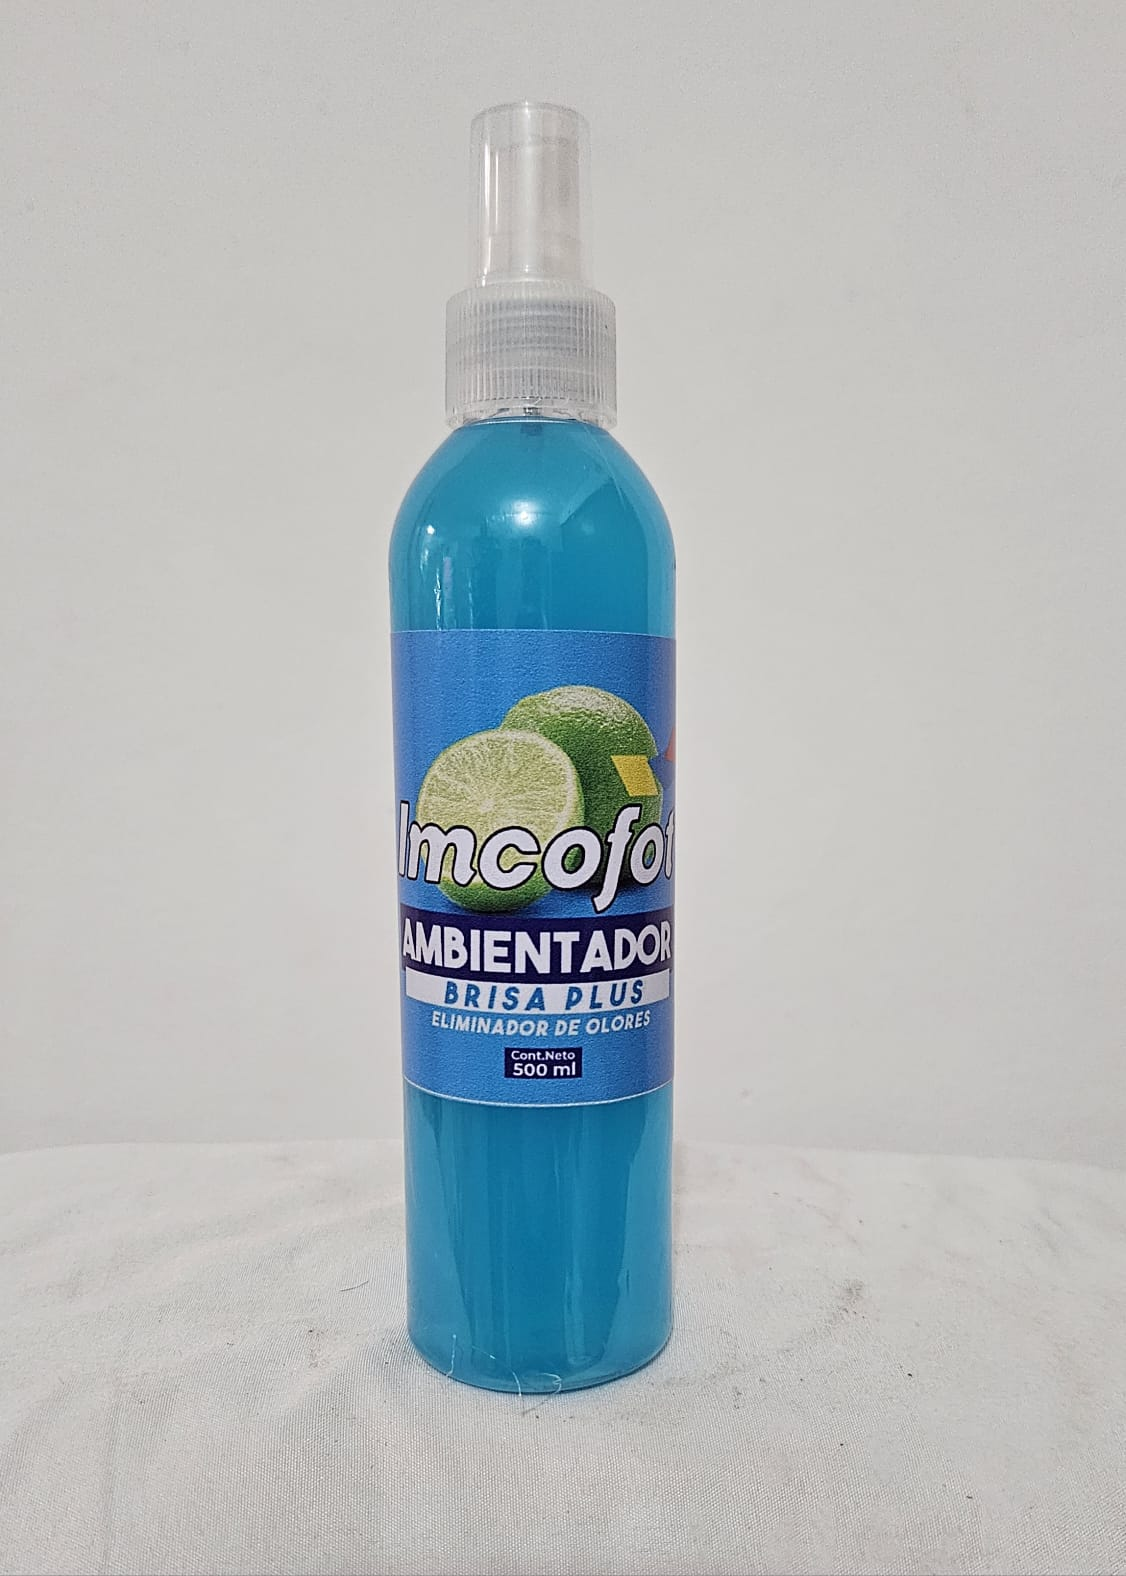
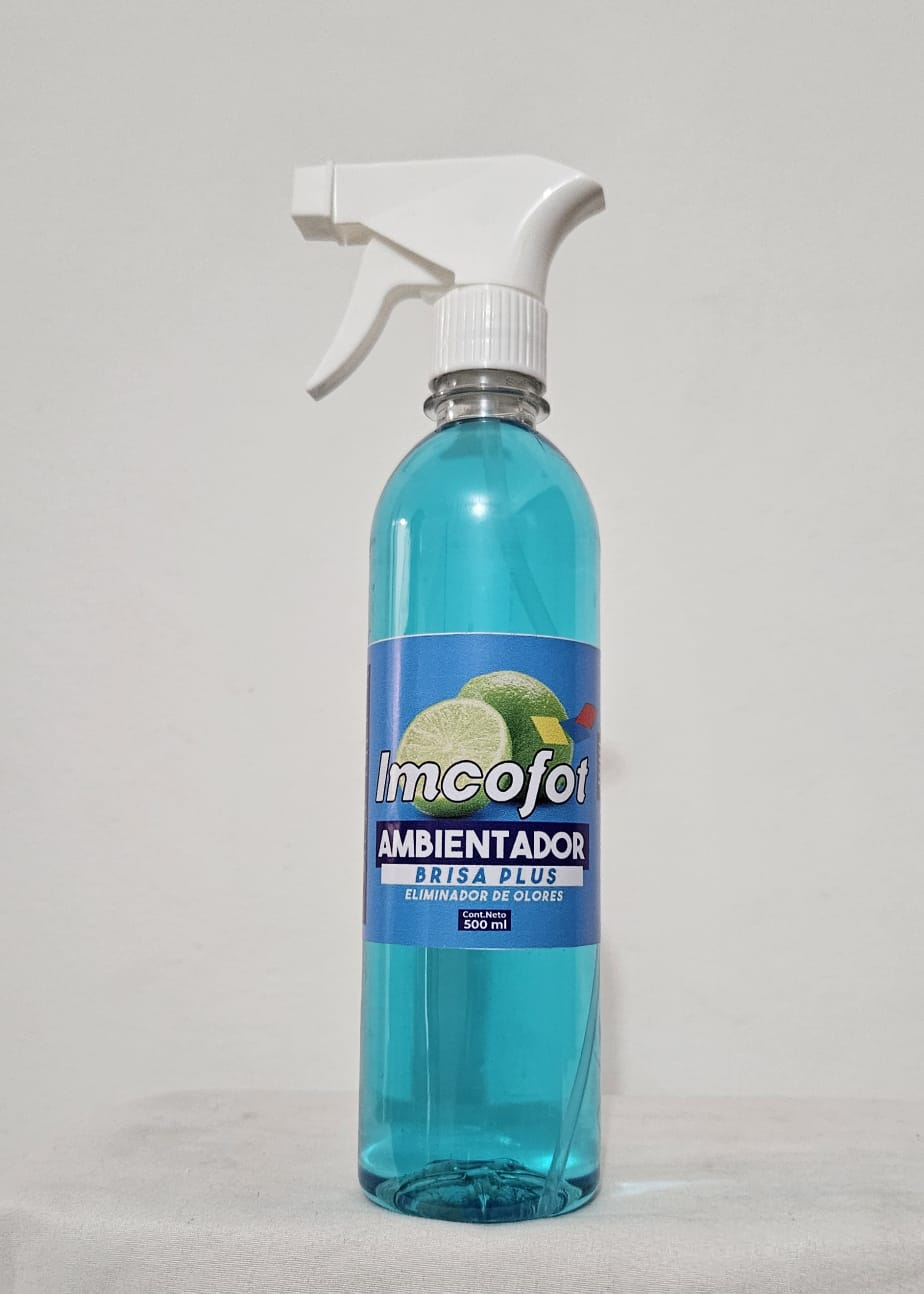
jqk

Changed region(s): [[0.2121, 0.0618, 0.7273, 1.0], [0.7273, 0.8037, 0.7576, 0.8346], [0.697, 0.9892, 0.7273, 1.0]]

diff --git a/aseo.html b/aseo.html
@@ -297,7 +297,7 @@
                             <div class="card-body">
                                 <h3 class="h3 text-decoration-none">DESENGRASANTE
                                     INDUSTRIAL 1.000ml</h3>
-                                <p class="codeproduct"> <b class="colorblue">Precio: </b>$11.500  </p>
+                                <p class="codeproduct"> <b class="colorblue">Precio: </b>$12.000  </p>
                                 <p class="unitpresentation"><b class="colorblue"></b>Limpiador fuertemente alcalino, ideal
                                     para removersuciedad difícil,
                                     especialmente para sedimento
@@ -319,7 +319,7 @@
                             <div class="card-body">
                                 <h3 class="h3 text-decoration-none">DESENGRASANTE
                                     INDUSTRIAL 500ml</h3>
-                                <p class="codeproduct"> <b class="colorblue">Precio: </b>$6.200  </p>
+                                <p class="codeproduct"> <b class="colorblue">Precio: </b>$6.600  </p>
                                 <p class="unitpresentation"><b class="colorblue"></b>Limpiador fuertemente alcalino, ideal
                                     para removersuciedad difícil,
                                     especialmente para sedimento
@@ -420,18 +420,18 @@
                         </div>
                     </div>
 
-                    <!-- <div class="col-md-4">
+                    <div class="col-md-4">
                         <div class="card mb-4 product-wap rounded-0">
                             <div class="card rounded-0">
-                                <img class="card-img rounded-0 img-fluid" src="assets/img/Aseo/A006.jfif">
+                                <img class="card-img rounded-0 img-fluid" src="assets/img/Aseo/A012.jpeg">
                                 <div class="card-img-overlay rounded-0 product-overlay d-flex align-items-center justify-content-center">
                                     
                                 </div>
                             </div>
                             <div class="card-body">
-                                <h3 class="h3 text-decoration-none">GEL ANTIBACTERIAL
+                                <h3 class="h3 text-decoration-none">GEL ANTIBACTERIAL 500ml
                                 </h3>
-                                <p class="codeproduct"> <b class="colorblue">Codigo: </b>A006  </p>
+                                <p class="codeproduct"> <b class="colorblue">precio: </b>$6.900</p>
                                 <p class="unitpresentation"><b class="colorblue"></b>Se emplea en la limpieza y
                                     desinfección de manos, contiene
                                     microesferas de vitamina que
@@ -442,7 +442,7 @@
                                     </p>
                             </div>
                         </div>
-                    </div> -->
+                    </div>
 
                     <div class="col-md-4">
                         <div class="card mb-4 product-wap rounded-0">
@@ -454,8 +454,8 @@
                             </div>
                             <div class="card-body">
                                 <h3 class="h3 text-decoration-none">ELIMINADOR DE OLORES
-                                    AROMA BRISA PLUS 250ml</h3>
-                                <p class="codeproduct"> <b class="colorblue">Precio: </b>$3.200  </p>
+                                    AROMA BRISA PLUS 500ml</h3>
+                                <p class="codeproduct"> <b class="colorblue">Precio: </b>$6.000</p>
                                 <p class="unitpresentation"><b class="colorblue"></b>Único con desinfectante de 5
                                     generación con un doble efecto,
                                     desodoriza y deja un agradable
@@ -469,7 +469,51 @@
                     <div class="col-md-4">
                         <div class="card mb-4 product-wap rounded-0">
                             <div class="card rounded-0">
-                                <img class="card-img rounded-0 img-fluid" src="assets/img/Aseo/A014.jpg">
+                                <img class="card-img rounded-0 img-fluid" src="assets/img/Aseo/A013.1.jpeg">
+                                <div class="card-img-overlay rounded-0 product-overlay d-flex align-items-center justify-content-center">
+                                    
+                                </div>
+                            </div>
+                            <div class="card-body">
+                                <h3 class="h3 text-decoration-none">ELIMINADOR DE OLORES
+                                    AROMA BRISA PLUS 250ml</h3>
+                                <p class="codeproduct"> <b class="colorblue">Precio: </b>$3.500  </p>
+                                <p class="unitpresentation"><b class="colorblue"></b>Único con desinfectante de 5
+                                    generación con un doble efecto,
+                                    desodoriza y deja un agradable
+                                    aroma a fragancia natural,
+                                    producto biodegradable.
+                                    </p>
+                            </div>
+                        </div>
+                    </div>
+
+                    <div class="col-md-4">
+                        <div class="card mb-4 product-wap rounded-0">
+                            <div class="card rounded-0">
+                                <img class="card-img rounded-0 img-fluid" src="assets/img/Aseo/A014.jpeg">
+                                <div class="card-img-overlay rounded-0 product-overlay d-flex align-items-center justify-content-center">
+                                    
+                                </div>
+                            </div>
+                            <div class="card-body">
+                                <h3 class="h3 text-decoration-none">ELIMINADOR DE OLORES
+                                    AROMA FRUTOS ROJOS 500ml</h3>
+                                <p class="codeproduct"> <b class="colorblue">Precio: </b>$6.000</p>
+                                <p class="unitpresentation"><b class="colorblue"></b>Único con desinfectante de 5
+                                    generación con un doble efecto,
+                                    desodoriza y deja un agradable
+                                    aroma a fragancia natural,
+                                    producto biodegradable.
+                                    </p>
+                            </div>
+                        </div>
+                    </div>
+
+                    <div class="col-md-4">
+                        <div class="card mb-4 product-wap rounded-0">
+                            <div class="card rounded-0">
+                                <img class="card-img rounded-0 img-fluid" src="assets/img/Aseo/A014.1.jpg">
                                 <div class="card-img-overlay rounded-0 product-overlay d-flex align-items-center justify-content-center">
                                     
                                 </div>
@@ -477,7 +521,7 @@
                             <div class="card-body">
                                 <h3 class="h3 text-decoration-none">ELIMINADOR DE OLORES
                                     AROMA FRUTOS ROJOS 250ml</h3>
-                                <p class="codeproduct"> <b class="colorblue">Precio: </b>$3.200  </p>
+                                <p class="codeproduct"> <b class="colorblue">Precio: </b>$3.500  </p>
                                 <p class="unitpresentation"><b class="colorblue"></b>Único con desinfectante de 5
                                     generación con un doble efecto,
                                     desodoriza y deja un agradable
@@ -594,6 +638,28 @@
                         </div>
                     </div>
 
+                    <div class="col-md-4">
+                        <div class="card mb-4 product-wap rounded-0">
+                            <div class="card rounded-0">
+                                <img class="card-img rounded-0 img-fluid" src="assets/img/Aseo/A019.1.jpeg">
+                                <div class="card-img-overlay rounded-0 product-overlay d-flex align-items-center justify-content-center">
+                                    
+                                </div>
+                            </div>
+                            <div class="card-body">
+                                <h3 class="h3 text-decoration-none">CREOLINA 250ml</h3>
+                                <p class="codeproduct"> <b class="colorblue">Precio: </b>$5.000</p>
+                                <p class="unitpresentation"><b class="colorblue"></b>Desinfectante natural para uso
+                                    principalmente en limpieza y
+                                    desinfección de pisos, galpones,
+                                    gallineros, criaderos y en general en
+                                    todos aquellos lugares propensos a la
+                                    proliferación de microorganismos,
+                                    olores desagradables.</p>
+                            </div>
+                        </div>
+                    </div>
+
                     <!-- <div class="col-md-4">
                         <div class="card mb-4 product-wap rounded-0">
                             <div class="card rounded-0">
@@ -636,10 +702,10 @@
                         </div>
                     </div>
 
-                    <!-- <div class="col-md-4">
+                    <div class="col-md-4">
                         <div class="card mb-4 product-wap rounded-0">
                             <div class="card rounded-0">
-                                <img class="card-img rounded-0 img-fluid" src="assets/img/Aseo/A022.jpg">
+                                <img class="card-img rounded-0 img-fluid" src="assets/img/Aseo/A022.jpeg">
                                 <div class="card-img-overlay rounded-0 product-overlay d-flex align-items-center justify-content-center">
                                     
                                 </div>
@@ -647,7 +713,7 @@
                             <div class="card-body">
                                 <h3 class="h3 text-decoration-none">LIMPIADOR
                                     DESINFECTANTE BICARBONATO 1.000ml</h3>
-                                <p class="codeproduct"> <b class="colorblue">Precio: </b>$5.800  </p>
+                                <p class="codeproduct"> <b class="colorblue">Precio: </b>$6.000</p>
                                 <p class="unitpresentation"><b class="colorblue"></b>Se emplea en la limpieza de pisos
                                     de cualquier calidad, baños, y
                                     otrassuperficie desinfectando y
@@ -656,7 +722,7 @@
                                     </p>
                             </div>
                         </div>
-                    </div> -->
+                    </div>
 
                     <div class="col-md-4">
                         <div class="card mb-4 product-wap rounded-0">
@@ -691,7 +757,7 @@
                             <div class="card-body">
                                 <h3 class="h3 text-decoration-none">LIMPIADOR
                                     DESINFECTANTE CANELA 3.800ml</h3>
-                                <p class="codeproduct"> <b class="colorblue">Precio: </b>$18.500  </p>
+                                <p class="codeproduct"> <b class="colorblue">Precio: </b>$19.500  </p>
                                 <p class="unitpresentation"><b class="colorblue"></b>Se emplea en la limpieza de pisos
                                     de cualquier calidad, baños, y
                                     otrassuperficie desinfectando y
@@ -757,7 +823,7 @@
                             <div class="card-body">
                                 <h3 class="h3 text-decoration-none">LIMPIADOR
                                     DESINFECTANTE FLORAL 3.800ml</h3>
-                                <p class="codeproduct"> <b class="colorblue">Precio: </b>$18.500  </p>
+                                <p class="codeproduct"> <b class="colorblue">Precio: </b>$19.500  </p>
                                 <p class="unitpresentation"><b class="colorblue"></b>Se emplea en la limpieza de pisos
                                     de cualquier calidad, baños, y
                                     otrassuperficie desinfectando y
@@ -779,7 +845,7 @@
                             <div class="card-body">
                                 <h3 class="h3 text-decoration-none">LIMPIADOR
                                     DESINFECTANTE FLORAL 1.000ml</h3>
-                                <p class="codeproduct"> <b class="colorblue">Precio: </b>$5.800  </p>
+                                <p class="codeproduct"> <b class="colorblue">Precio: </b>$6.000  </p>
                                 <p class="unitpresentation"><b class="colorblue"></b>Se emplea en la limpieza de pisos
                                     de cualquier calidad, baños, y
                                     otrassuperficie desinfectando y
@@ -812,10 +878,10 @@
                         </div>
                     </div>
 
-                    <!-- <div class="col-md-4">
+                    <div class="col-md-4">
                         <div class="card mb-4 product-wap rounded-0">
                             <div class="card rounded-0">
-                                <img class="card-img rounded-0 img-fluid" src="assets/img/Aseo/A030.jpg">
+                                <img class="card-img rounded-0 img-fluid" src="assets/img/Aseo/A030.jpeg">
                                 <div class="card-img-overlay rounded-0 product-overlay d-flex align-items-center justify-content-center">
                                     
                                 </div>
@@ -823,7 +889,7 @@
                             <div class="card-body">
                                 <h3 class="h3 text-decoration-none">LIMPIADOR
                                     DESINFECTANTE LAVANDA 3.800ml</h3>
-                                <p class="codeproduct"> <b class="colorblue">Precio: </b>$18.500  </p>
+                                <p class="codeproduct"> <b class="colorblue">Precio: </b>$19.500  </p>
                                 <p class="unitpresentation"><b class="colorblue"></b>Se emplea en la limpieza de pisos
                                     de cualquier calidad, baños, y
                                     otrassuperficie desinfectando y
@@ -832,7 +898,7 @@
                                     </p>
                             </div>
                         </div>
-                    </div> -->
+                    </div>
 
                     <div class="col-md-4">
                         <div class="card mb-4 product-wap rounded-0">
@@ -845,7 +911,7 @@
                             <div class="card-body">
                                 <h3 class="h3 text-decoration-none">LIMPIADOR
                                     DESINFECTANTE LAVANDA 1.000ml</h3>
-                                <p class="codeproduct"> <b class="colorblue">Precio: </b>$5.800  </p>
+                                <p class="codeproduct"> <b class="colorblue">Precio: </b>$6.000  </p>
                                 <p class="unitpresentation"><b class="colorblue"></b>Se emplea en la limpieza de pisos
                                     de cualquier calidad, baños, y
                                     otrassuperficie desinfectando y
@@ -889,7 +955,7 @@
                             <div class="card-body">
                                 <h3 class="h3 text-decoration-none">LIMPIADOR
                                     DESINFECTANTE MANZANA VERDE 3.800ml</h3>
-                                <p class="codeproduct"> <b class="colorblue">Precio: </b>$18.500  </p>
+                                <p class="codeproduct"> <b class="colorblue">Precio: </b>$19.500  </p>
                                 <p class="unitpresentation"><b class="colorblue"></b>Se emplea en la limpieza de pisos
                                     de cualquier calidad, baños, y
                                     otrassuperficie desinfectando y
@@ -911,7 +977,7 @@
                             <div class="card-body">
                                 <h3 class="h3 text-decoration-none">LIMPIADOR
                                     DESINFECTANTE MANZANA VERDE 1.000ml</h3>
-                                <p class="codeproduct"> <b class="colorblue">Precio: </b>$5.800  </p>
+                                <p class="codeproduct"> <b class="colorblue">Precio: </b>$6.000  </p>
                                 <p class="unitpresentation"><b class="colorblue"></b>Se emplea en la limpieza de pisos
                                     de cualquier calidad, baños, y
                                     otrassuperficie desinfectando y
@@ -944,17 +1010,17 @@
                         </div>
                     </div>
 
-                    <!-- <div class="col-md-4">
+                    <div class="col-md-4">
                         <div class="card mb-4 product-wap rounded-0">
                             <div class="card rounded-0">
-                                <img class="card-img rounded-0 img-fluid" src="assets/img/Aseo/A036.jfif">
+                                <img class="card-img rounded-0 img-fluid" src="assets/img/Aseo/A036.jpeg">
                                 <div class="card-img-overlay rounded-0 product-overlay d-flex align-items-center justify-content-center">
                                     
                                 </div>
                             </div>
                             <div class="card-body">
                                 <h3 class="h3 text-decoration-none">LAVALOZA LIQUIDO</h3>
-                                <p class="codeproduct"> <b class="colorblue">Codigo: </b>A012  </p>
+                                <p class="codeproduct"> <b class="colorblue">Precio: </b>$5.500</p>
                                 <p class="unitpresentation"><b class="colorblue"></b>Lavaloza liquido olor agradable,
                                     con alto poder desengrasante
                                     elaborado con tenso activos
@@ -966,7 +1032,7 @@
                                     </p>
                             </div>
                         </div>
-                    </div> -->
+                    </div>
 
                     <div class="col-md-4">
                         <div class="card mb-4 product-wap rounded-0">
@@ -1006,7 +1072,7 @@
                         </div>
                     </div>
 
-                    <!-- <div class="col-md-4">
+                    <div class="col-md-4">
                         <div class="card mb-4 product-wap rounded-0">
                             <div class="card rounded-0">
                                 <img class="card-img rounded-0 img-fluid" src="assets/img/Aseo/A039.jpeg">
@@ -1023,7 +1089,7 @@
                                     y aroma.</p>
                             </div>
                         </div>
-                    </div> -->
+                    </div>
 
                     <!-- <div class="col-md-4">
                         <div class="card mb-4 product-wap rounded-0">
@@ -1034,7 +1100,7 @@
                                 </div>
                             </div>
                             <div class="card-body">
-                                <h3 class="h3 text-decoration-none">SUAVIZANTE FLORAL 3.800ml</h3>
+                                <h3 class="h3 text-decoration-none">SUAVIZANTE MANZANA VERDE 3.800ml</h3>
                                 <p class="codeproduct"> <b class="colorblue">Precio: </b>$24.800  </p>
                                 <p class="unitpresentation"><b class="colorblue"></b>formula con su alto porcentaje con
                                     microcápsulas de suavidad, aviva
@@ -1239,7 +1305,27 @@
                     <div class="col-md-4">
                         <div class="card mb-4 product-wap rounded-0">
                             <div class="card rounded-0">
-                                <img class="card-img rounded-0 img-fluid" src="assets/img/Aseo/A050.jpg">
+                                <img class="card-img rounded-0 img-fluid" src="assets/img/Aseo/A050.jpeg">
+                                <div class="card-img-overlay rounded-0 product-overlay d-flex align-items-center justify-content-center">
+                                    
+                                </div>
+                            </div>
+                            <div class="card-body">
+
+                                <h3 class="h3 text-decoration-none">SILICONA LIQUIDA 500ml</h3>
+                                <p class="codeproduct"> <b class="colorblue">Precio: </b>$12.000</p>
+                                <p class="unitpresentation"><b class="colorblue"></b>Ideal para proteger toda
+                                    superficie, ayuda a restaurar
+                                    toda clase de superficie.
+                                    </p>
+                            </div>
+                        </div>
+                    </div>
+
+                    <div class="col-md-4">
+                        <div class="card mb-4 product-wap rounded-0">
+                            <div class="card rounded-0">
+                                <img class="card-img rounded-0 img-fluid" src="assets/img/Aseo/A050.1.jpg">
                                 <div class="card-img-overlay rounded-0 product-overlay d-flex align-items-center justify-content-center">
                                     
                                 </div>
